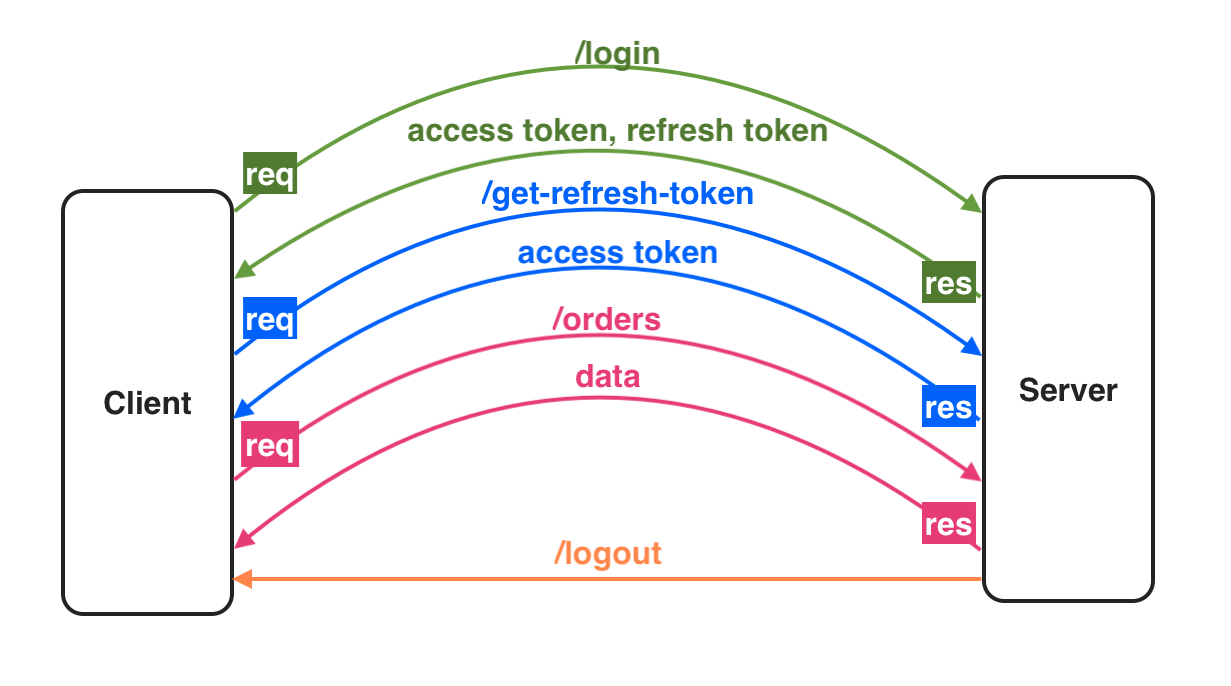
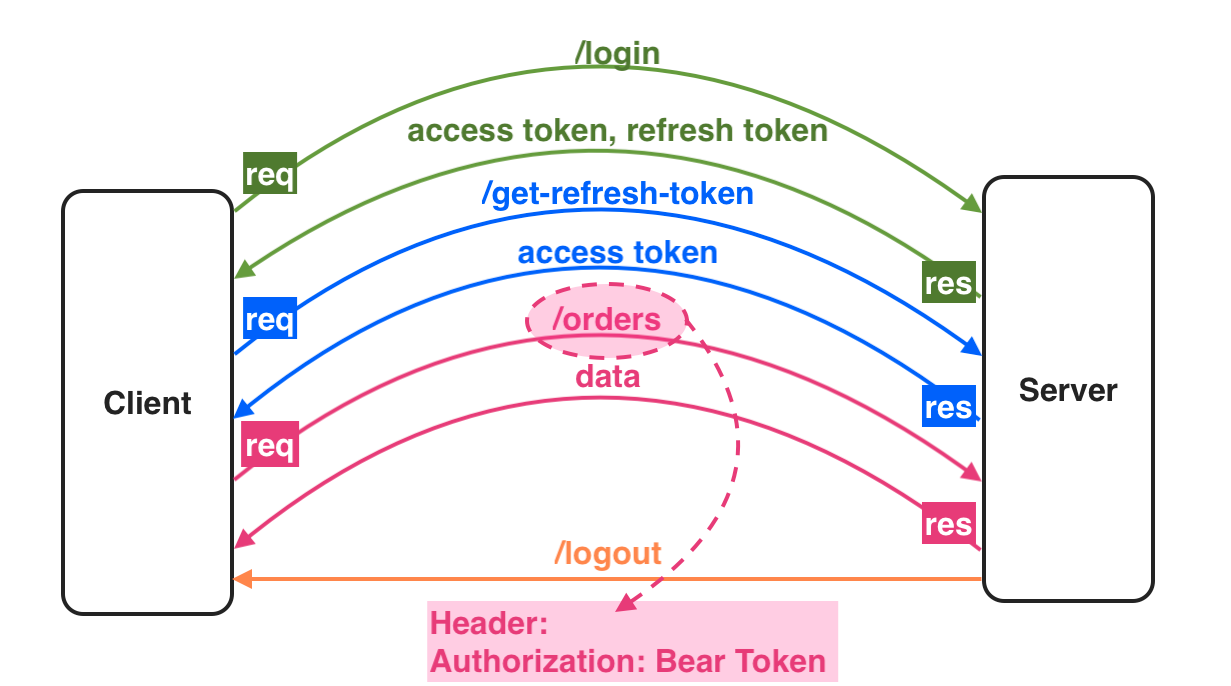
docs: update jwt images and README

Changed region(s): [[0.3396, 0.8265, 0.6791, 1.0], [0.4013, 0.398, 0.5865, 0.5204]]

diff --git a/README.md b/README.md
@@ -29,3 +29,7 @@ server.js for other purpose
 
 - Postman
 - Rest Client (VS code extension)
+
+## Verify JWT Tool
+
+https://jwt.io/
